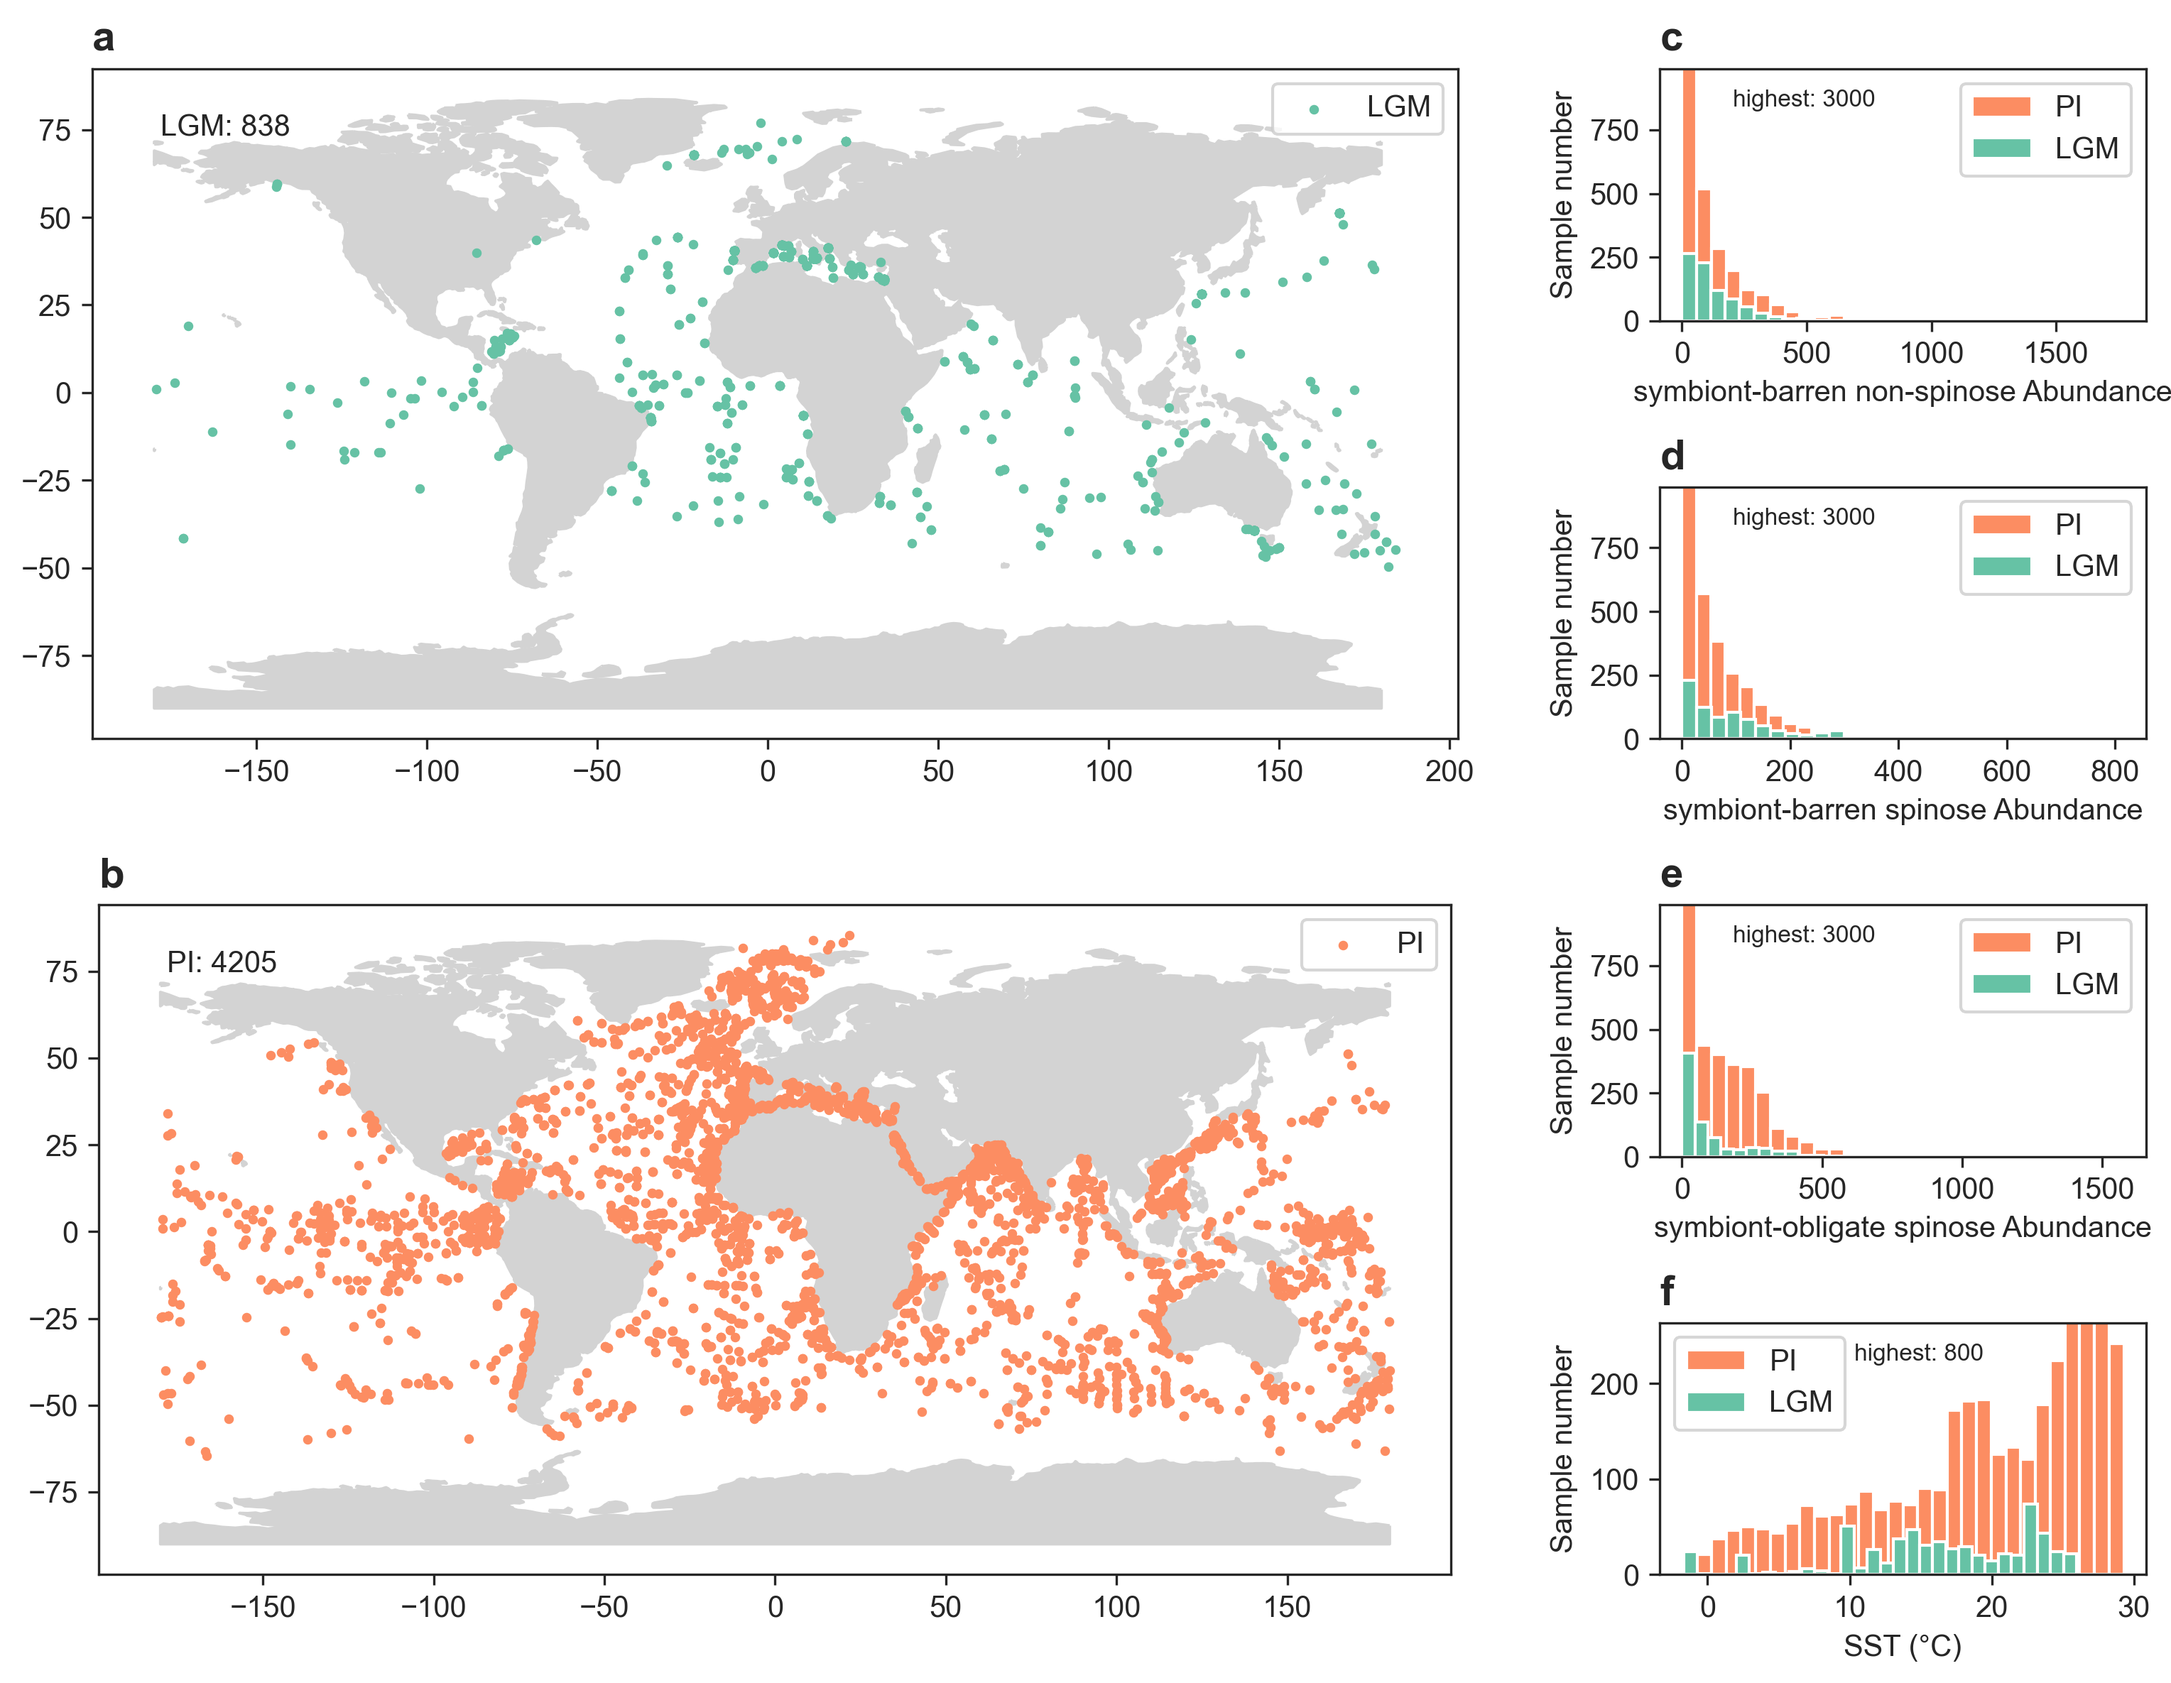
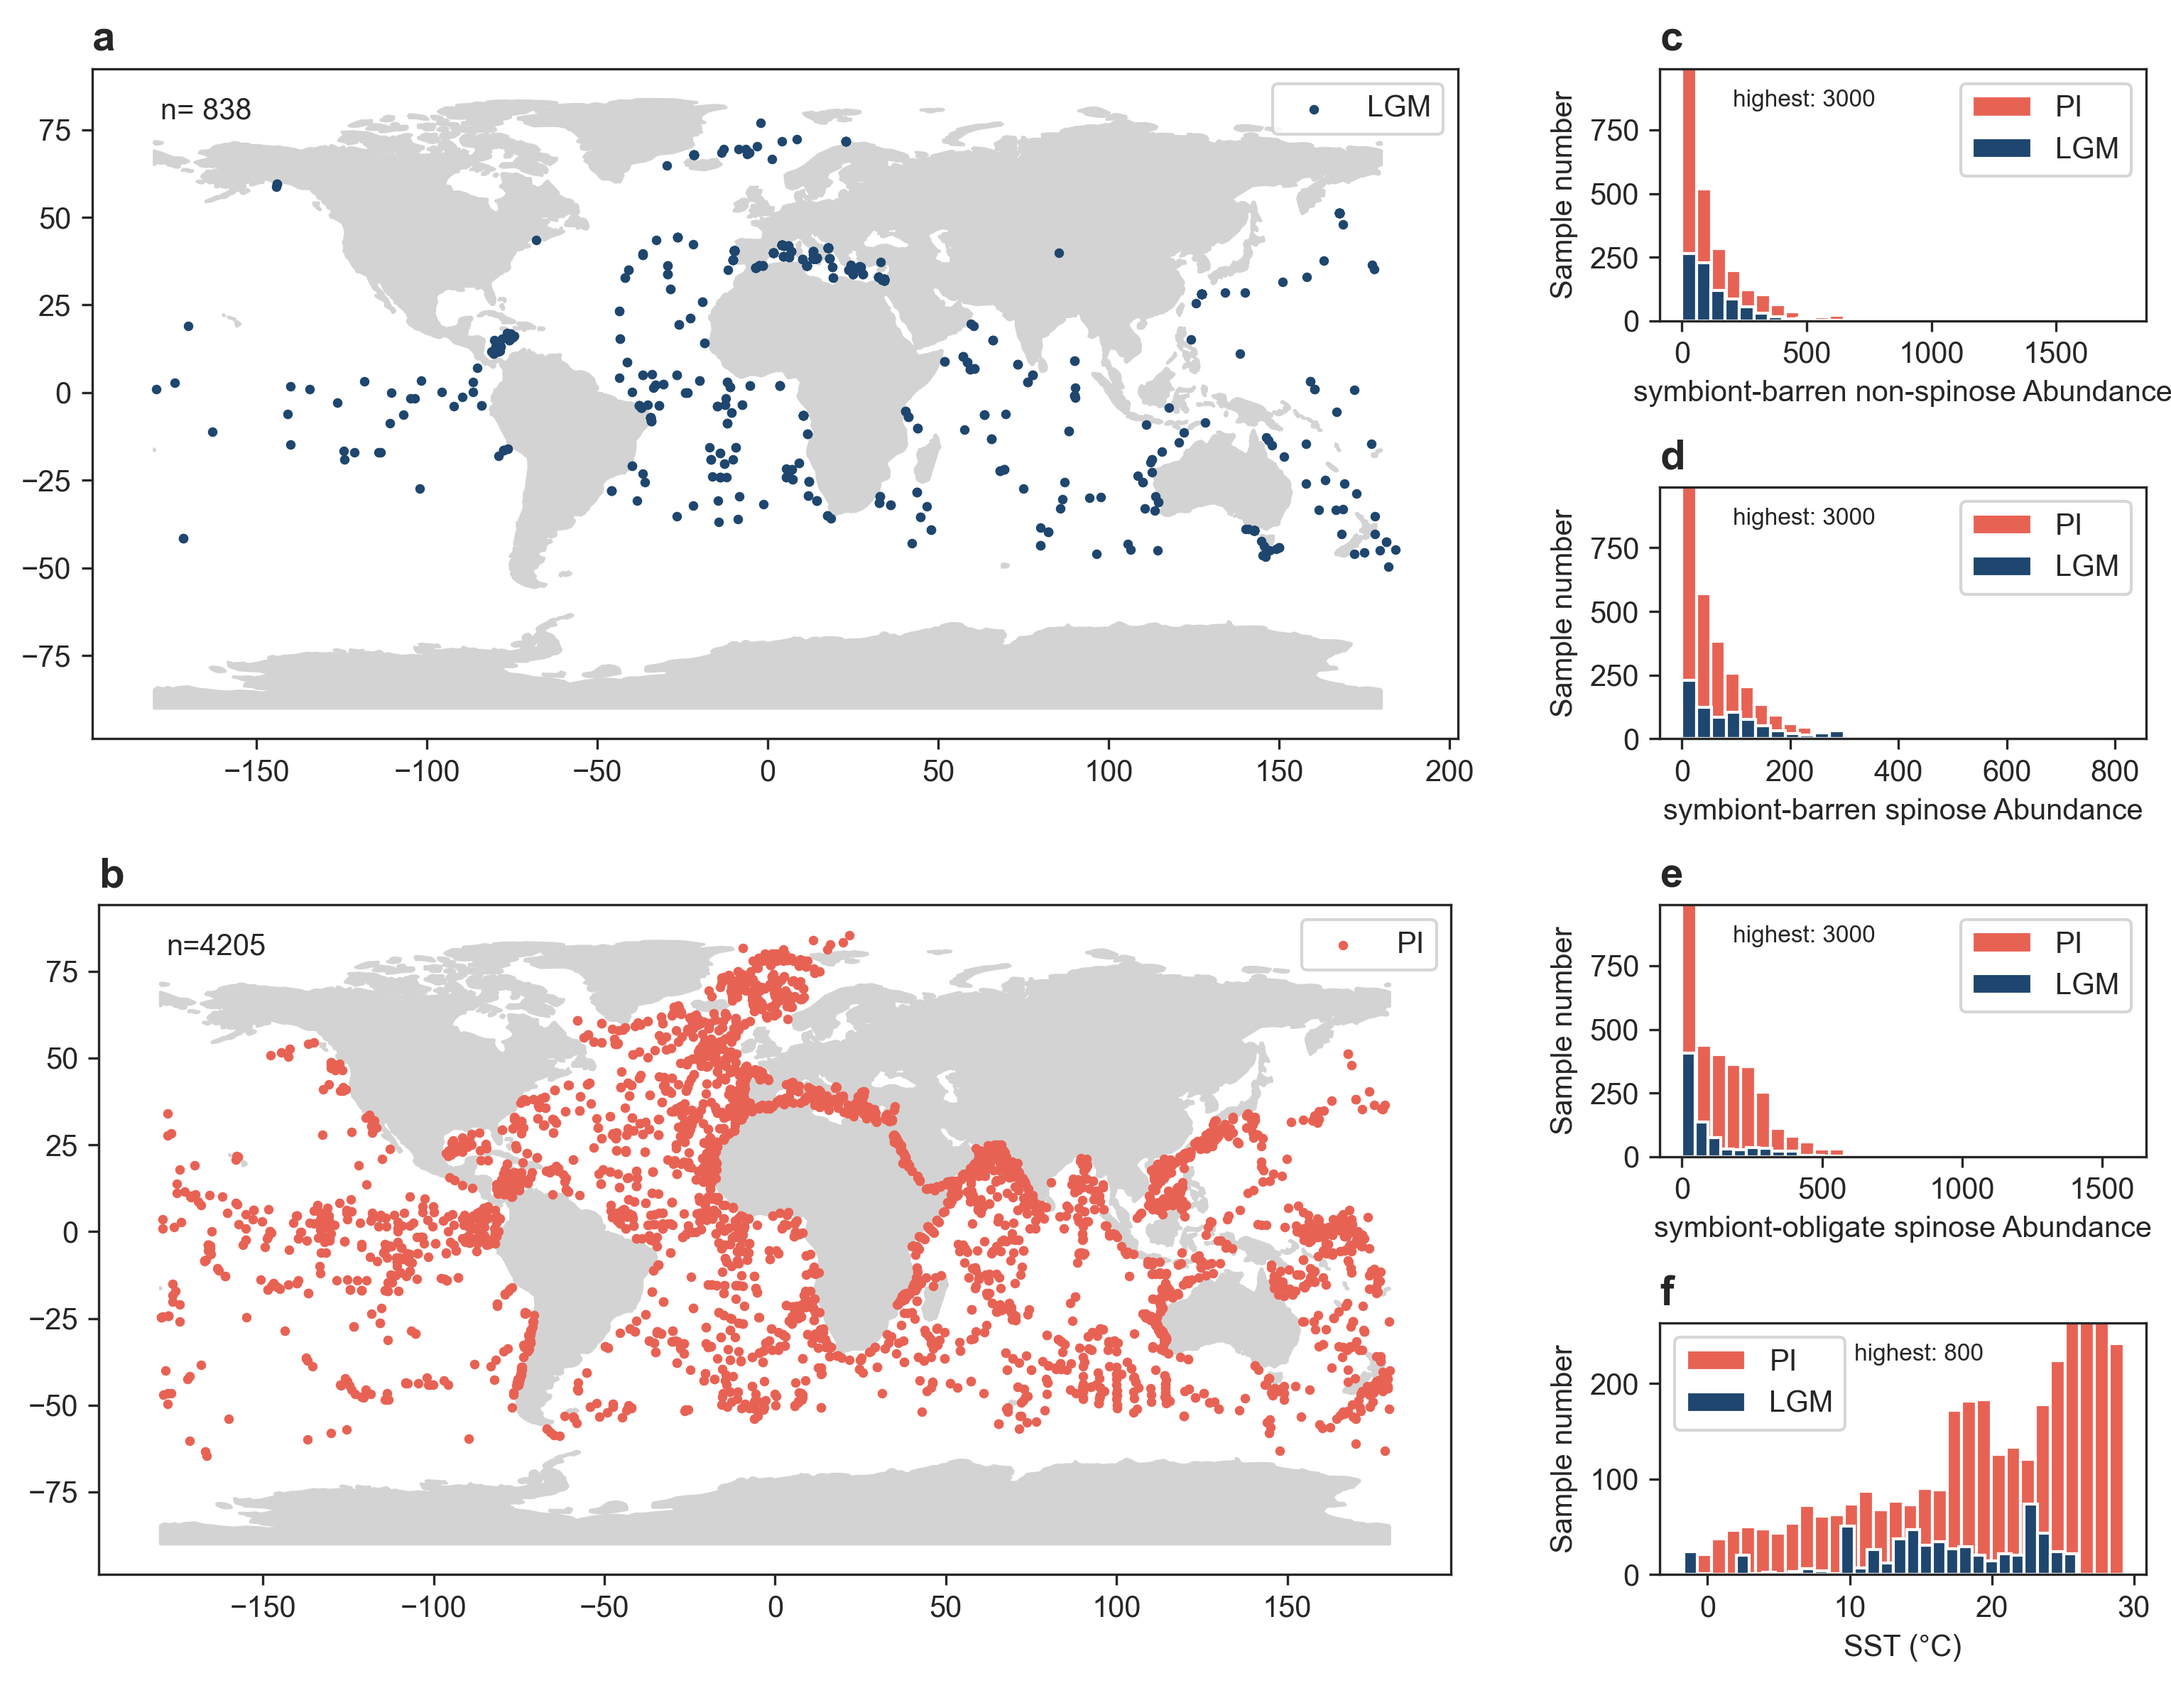
prettify the sampling_effort.png

diff --git a/code/sample_efforts.py b/code/sample_efforts.py
@@ -4,12 +4,13 @@ import seaborn as sns
 from shapely.geometry import Point
 import geopandas as gpd
 import string
+from matplotlib.gridspec import GridSpec
 
 def pd_to_gpd(data):
     geometry = [Point(xy) for xy in zip(data['Longitude'], data['Latitude'])]
     gdf = gpd.GeoDataFrame(data, geometry=geometry, crs="EPSG:4326")
     return gdf
-from matplotlib.gridspec import GridSpec
+
 
 def main():
     "plot sample number over 1 degree bin (x axis)"
@@ -21,8 +22,8 @@ def main():
 
     # Create a figure with a 2x3 grid of subplots
     sns.set_style("ticks")
-    pi_color = sns.color_palette("Set2")[1]
-    lgm_color = sns.color_palette("Set2")[0]
+    pi_color = "#e86254"
+    lgm_color = "#1e466e"
 
     fig = plt.figure(figsize=(10.5, 8), tight_layout=True)
 
@@ -51,8 +52,8 @@ def main():
     n_pi = len(pi)
     n_lgm = len(lgm)
     
-    ax_map1.annotate('LGM: n= '+str(n_lgm), xy=(0.05, 0.925), xycoords='axes fraction', fontsize=10)
-    ax_map2.annotate('PI: n='+str(n_pi), xy=(0.05, 0.925), xycoords='axes fraction', fontsize=10)
+    ax_map1.annotate('n= '+str(n_lgm), xy=(0.05, 0.925), xycoords='axes fraction', fontsize=10)
+    ax_map2.annotate('n='+str(n_pi), xy=(0.05, 0.925), xycoords='axes fraction', fontsize=10)
 
     gdf_lgm.plot(ax=ax_map1, markersize=5, label='LGM', color=lgm_color)
     gdf_pi.plot(ax=ax_map2, markersize=5, label='PI', color=pi_color)
